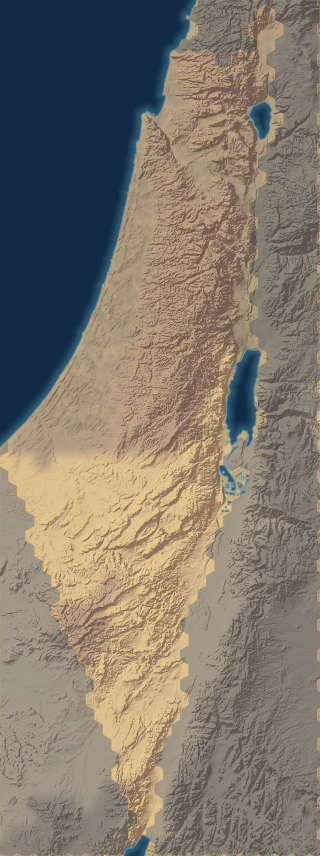
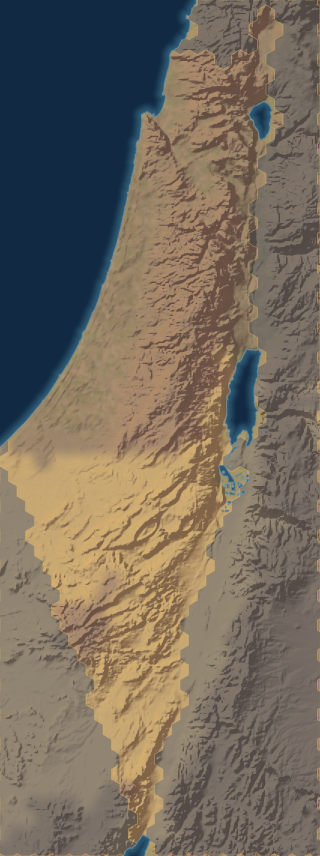
ui: the minimap relief tuned toward promo 03, mipmapped; the scene test keeps the shared picture (refs #398)

diff --git a/tools/minimap_bake.py b/tools/minimap_bake.py
@@ -40,13 +40,15 @@ OUT = ROOT / "unity" / "Assets" / "Resources" / "Map" / "MinimapRelief.png"
 WIDTH, HEIGHT = 320, 856        # the frame is 161.5 x 431.2 km (aspect 0.3746); both sides a multiple of 4
 SUPER = 2                       # samples per pixel per axis, box-filtered
 COAST_RANGE_M = 12000.0         # coast.png: 0.5 + d / (2 COAST_RANGE_M), d < 0 in water
-EXAGGERATION = 9.0              # relief for a 0.5 km pixel: the hills must read at minimap size
+EXAGGERATION = 12.0             # relief for a 0.5 km pixel: the hills must read at minimap size
+RELIEF_SMOOTH = 3               # heights averaged over 3 x 3 samples first: promo 03's broad ridges, not every gully
 SUN_AZIMUTH, SUN_ALTITUDE = 315.0, 38.0   # the cartographer's light, from the north-west
 LANDUSE_WEIGHT = 0.55           # the fields and orchards, softened: a painting, not the ground texture
 PARCHMENT = np.array([196, 178, 142], np.float32) / 255   # the promo's dry land between the tinted areas
 PARCHMENT_MIX = 0.30
 BRUSH = 6                       # the land colour is averaged over BRUSH x BRUSH samples (3 x 3 pixels, about 1.5 km)
-SATURATION = 0.80
+SATURATION = 1.10
+LAND_TONE = 0.86                # the land a little darker, toward promo 03 minimap's mean (luma about 0.47)
 SHADOW = np.array([0.66, 0.60, 0.62], np.float32)         # warm-cool split: shadows a little violet,
 LIGHT = np.array([1.10, 1.06, 0.96], np.float32)          # lit slopes a little warm
 SEA_DEEP = np.array([17, 41, 66], np.float32) / 255       # promo 03 minimap's open sea
@@ -129,6 +131,7 @@ def smooth(t: np.ndarray, a: float, b: float) -> np.ndarray:
 def bake() -> np.ndarray:
     w, h = WIDTH * SUPER, HEIGHT * SUPER
     z, dx, dy = heights(w, h)
+    z = resize(resize(z, w // RELIEF_SMOOTH, h // RELIEF_SMOOTH), w, h)
     shade = hillshade(z, dx, dy)
     flat = math.sin(math.radians(SUN_ALTITUDE))       # the shade of level ground
     ground = biome_rgb(w, h)
@@ -138,7 +141,7 @@ def bake() -> np.ndarray:
     land = resize_rgb(resize_rgb(land, w // BRUSH, h // BRUSH), w, h)   # broad strokes: no field speckle at minimap size
     grey = land.mean(axis=-1, keepdims=True)
     land = grey + (land - grey) * SATURATION
-    land = land * (1 - PARCHMENT_MIX) + PARCHMENT * PARCHMENT_MIX
+    land = (land * (1 - PARCHMENT_MIX) + PARCHMENT * PARCHMENT_MIX) * LAND_TONE
     rel = np.clip((shade - flat) / (1 - flat), -1, 1)[..., None]   # < 0 turned away, > 0 towards the light
     land = np.where(rel < 0, land * (1 + (SHADOW - 1) * -rel), land * (1 + (LIGHT - 1) * rel))
     out = outside(w, h)[..., None]

diff --git a/unity/Assets/Tests/EditMode/GameSceneTests.cs b/unity/Assets/Tests/EditMode/GameSceneTests.cs
@@ -293,8 +293,8 @@ public class GameSceneTests
         Assert.IsNull(camera.IsOverUi);
         Assert.IsNull(pointer.Map, "the pointer no longer picks on this map");
         Assert.AreEqual(float.MaxValue, camera.Bounds.width, "the camera bounds are restored");
-        Assert.IsTrue(texture == null, "the minimap texture is destroyed");
-        Assert.AreEqual(StyleKeyword.Null, image.style.backgroundImage.keyword, "nothing draws the destroyed texture");
+        Assert.IsTrue(texture != null, "the minimap's picture is the shared baked asset: let go of, not destroyed");
+        Assert.AreEqual(StyleKeyword.Null, image.style.backgroundImage.keyword, "nothing draws the minimap's picture");
         foreach (var label in Watched)
             Ui.Q<Label>(label).text = "untouched";
         var turn = bridge.State.Turn;

diff --git a/CHANGELOG.md b/CHANGELOG.md
@@ -20,6 +20,11 @@ adds a line under **Unreleased**; CI's `Changelog` job checks this (see `CONTRIB
 - GDD v0.1 Phase 1, a dev flag and the score (refs #380): `?mvp=1` in the WebGL page's URL loads the content through
   `MvpSlice.Overlay` (the GDD slice) for playtests. The golden check and the smoke run ignore it, and a slice game never
   reads, sets aside or writes the player's autosave (and has no New Game). In the GDD loop the top bar shows the score.
+- The minimap as promo 03's (HUD round 2, part 1, refs #398): a painted relief of the country, baked once from the map's
+  own heightmap, ground colours, land use and coast (`tools/minimap_bake.py`, `Resources/Map/MinimapRelief.png`, checked
+  fresh in CI) in place of the 128-pixel hex strip painted at boot, and beside it promo 03's three round buttons: zoom all
+  the way out, show or hide the settlement names, show or hide the region borders (and their caption). The picture stays
+  mouse-only (accessibility audit B1d); the buttons take Tab after End Turn. Presentation only: no golden moves.
 - Sourced Hebrew names in content (refs #558, #193), data only (no screen shows them yet): `title_he` for 30 of 31
   offices, plus `title_he_f` where a woman held the office (Labour, Foreign Affairs), `name_he` for 25 of 26 parties,
   the 8 governments and the 25 game settlements, `body_he` for the 4 legislatures, each with its own `*_he_sources`
